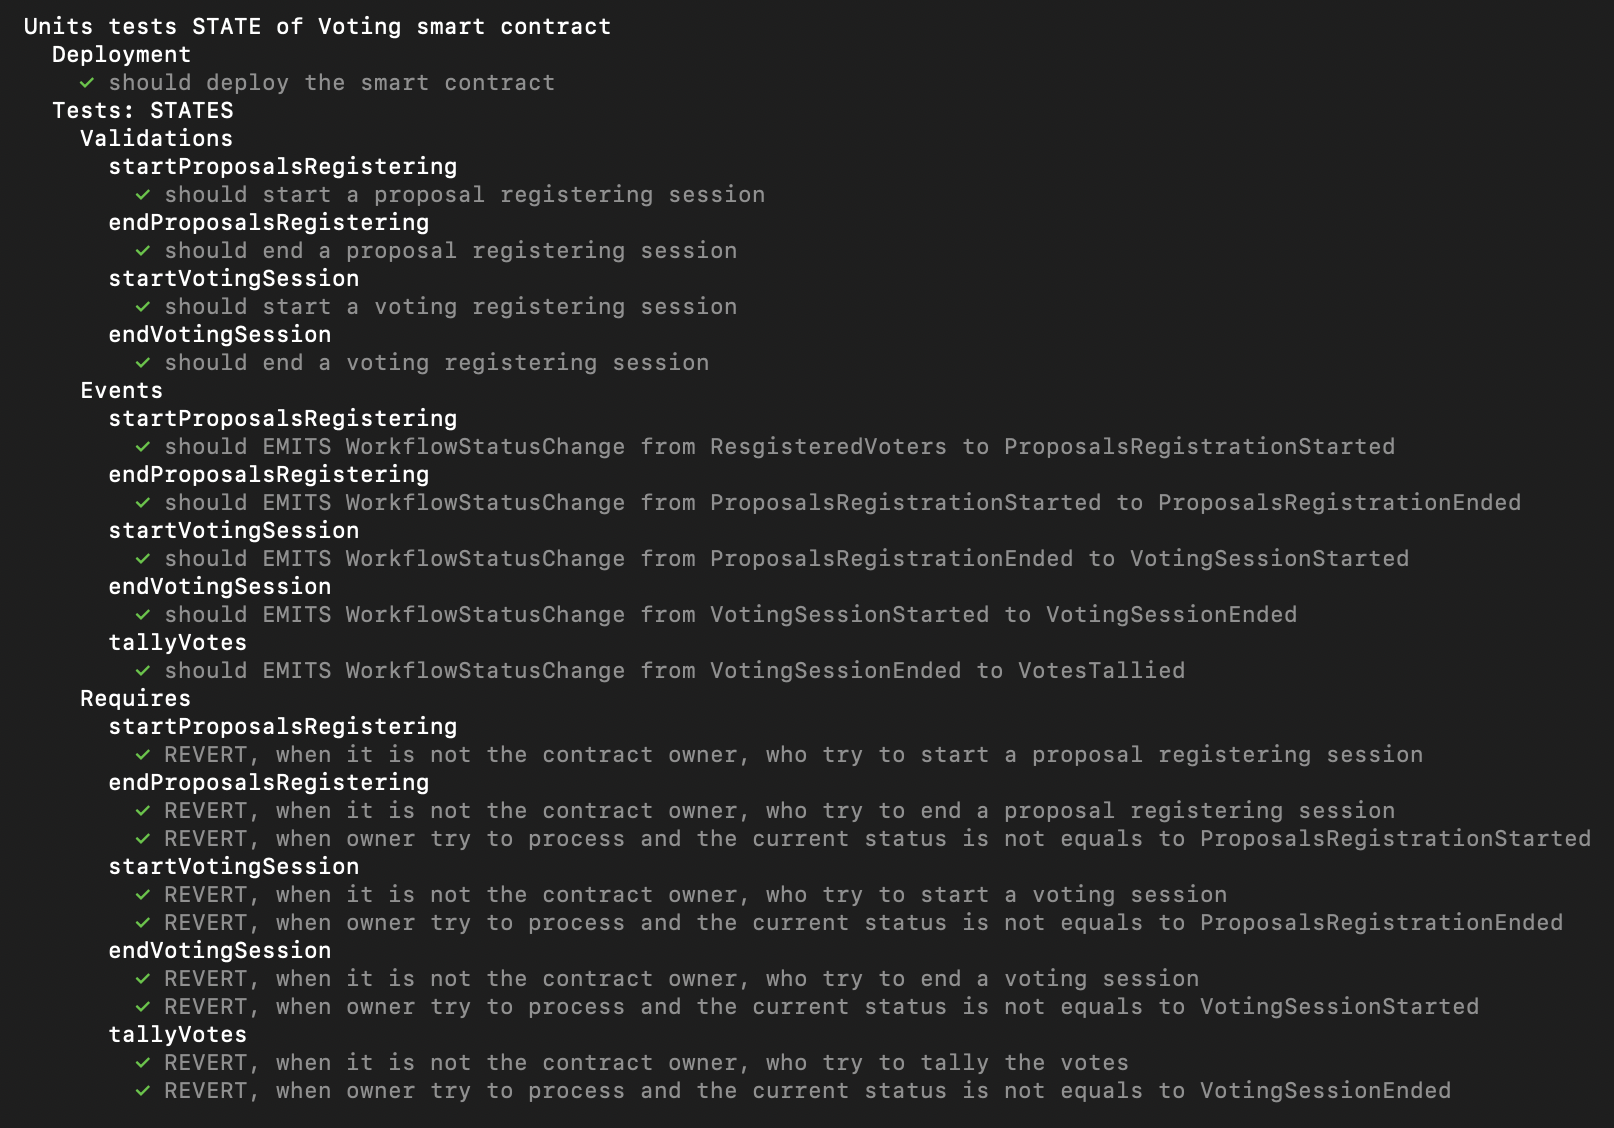
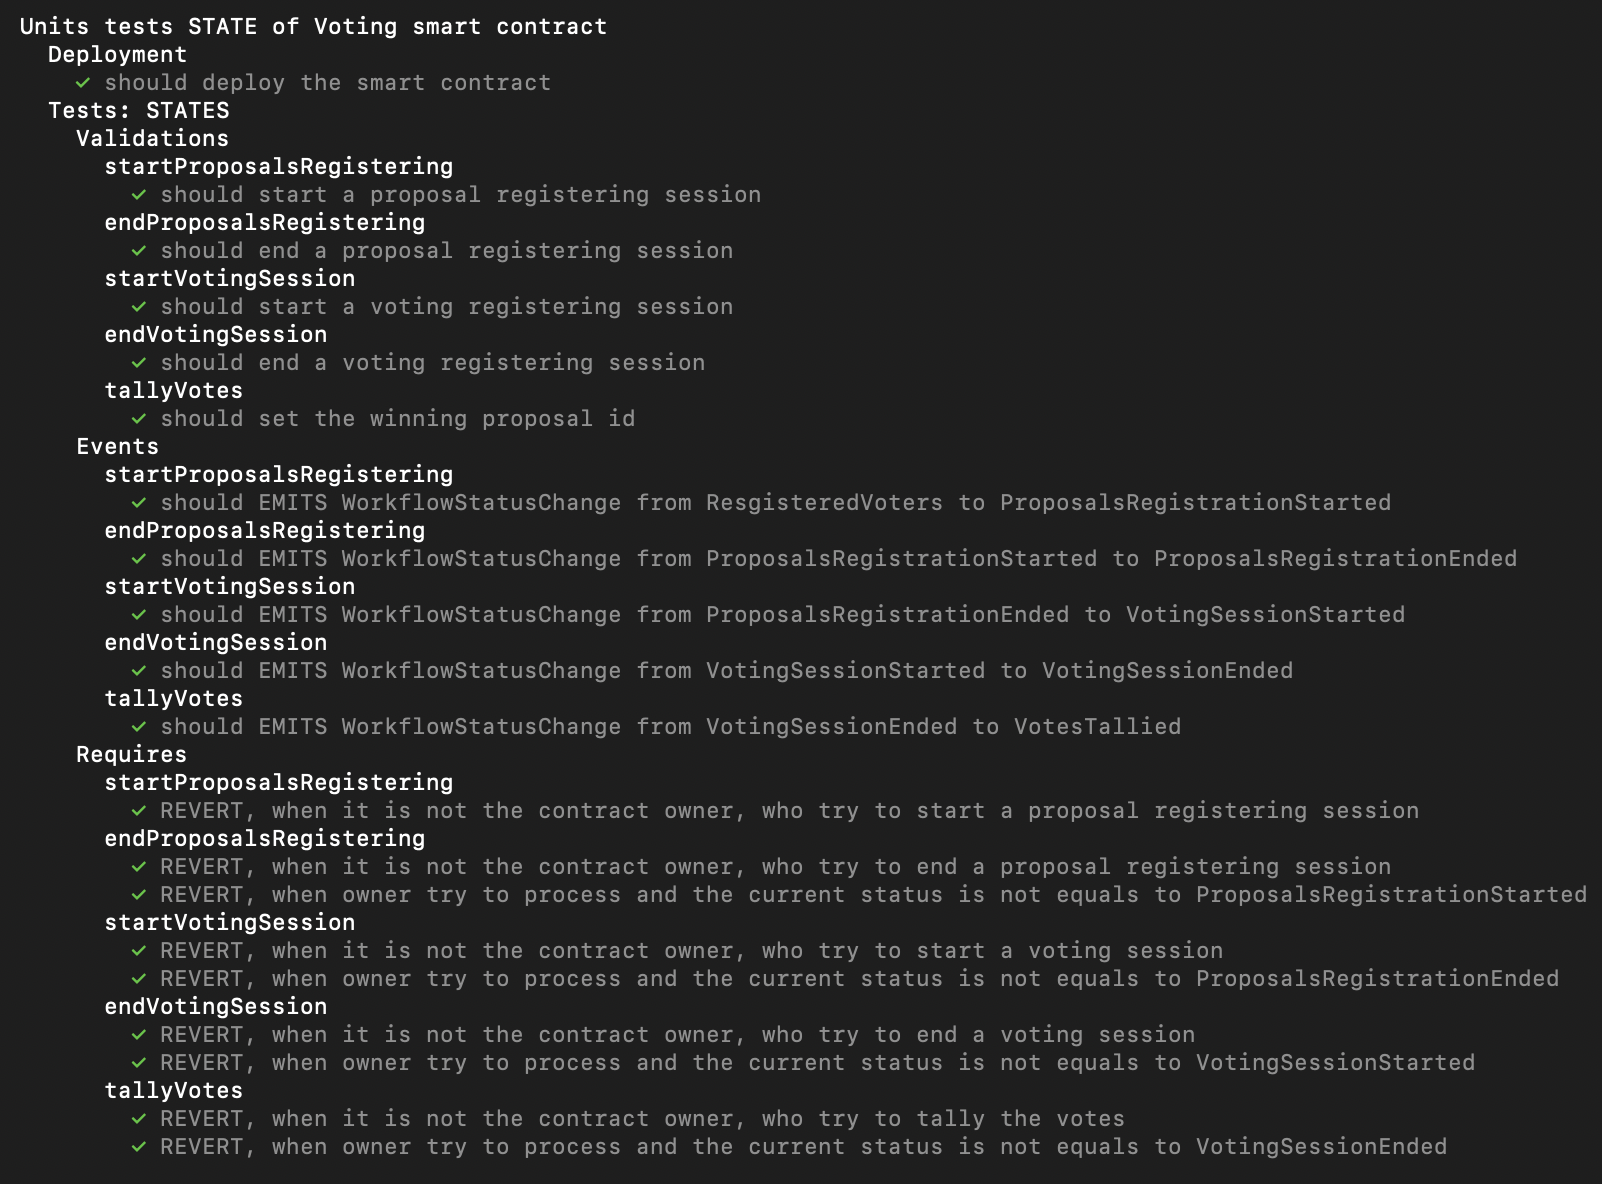
Add tallyvotes methods test validation

Changed region(s): [[0.0, 0.0, 0.9988, 0.9929]]

diff --git a/test/unit/votingsytem_state.test.js b/test/unit/votingsytem_state.test.js
@@ -7,7 +7,7 @@ const { developmentChains } = require("../../helper-hardhet-config")
   : describe("Units tests STATE of Voting smart contract", function(){
       let accounts;
       let voting;
-      
+
       before(async () => {
         accounts = await ethers.getSigners()
         deployer = accounts[0]
@@ -42,6 +42,7 @@ const { developmentChains } = require("../../helper-hardhet-config")
 
           describe("startVotingSession", async function(){
             it("should start a voting registering session", async function(){
+              // Starting the Proposal Registering session, also create a genesis proposal
               await voting.startProposalsRegistering()
               await voting.endProposalsRegistering()
               await expect(await voting.startVotingSession()).not.to.be.reverted
@@ -54,6 +55,21 @@ const { developmentChains } = require("../../helper-hardhet-config")
               await voting.endProposalsRegistering()
               await voting.startVotingSession()
               await expect(await voting.endVotingSession()).not.to.be.reverted
+            })
+          })
+
+          describe("tallyVotes", async function(){
+            it("should set the winning proposal id", async function(){
+              await voting.startProposalsRegistering()
+              await voting.endProposalsRegistering()
+              await voting.startVotingSession()
+              await voting.endVotingSession()
+
+              await expect(voting.tallyVotes()).not.to.be.reverted
+              const winningProposalID = await voting.winningProposalID.call()
+
+              // No vote has been made, proposal genesis is by default the winning proposal
+              await assert(ethers.BigNumber.from(winningProposalID).toString() === ethers.BigNumber.from(0).toString())
             })
           })
         })
@@ -98,7 +114,7 @@ const { developmentChains } = require("../../helper-hardhet-config")
               await voting.endProposalsRegistering()
               currentStatus = await voting.workflowStatus.call();
               assert(ethers.BigNumber.from(currentStatus).toString() === ProposalsRegistrationEnded.toString())
-      
+
               await expect(await voting.startVotingSession()).to.emit(voting, "WorkflowStatusChange")
 
               currentStatus = await voting.workflowStatus.call();
@@ -146,7 +162,7 @@ const { developmentChains } = require("../../helper-hardhet-config")
           })
 
           describe("endProposalsRegistering", async function(){
-            it("REVERT, when it is not the contract owner, who try to end a proposal registering session", async function(){                
+            it("REVERT, when it is not the contract owner, who try to end a proposal registering session", async function(){
               await expect(voting.connect(accounts[1]).endProposalsRegistering()).to.be.revertedWith("Ownable: caller is not the owner")
             })
 
@@ -156,7 +172,7 @@ const { developmentChains } = require("../../helper-hardhet-config")
           })
 
           describe("startVotingSession", async function(){
-            it("REVERT, when it is not the contract owner, who try to start a voting session", async function(){                
+            it("REVERT, when it is not the contract owner, who try to start a voting session", async function(){
               await expect(voting.connect(accounts[1]).startVotingSession()).to.be.revertedWith("Ownable: caller is not the owner")
             })
 
@@ -164,9 +180,9 @@ const { developmentChains } = require("../../helper-hardhet-config")
               await expect(voting.startVotingSession()).to.be.revertedWith("Registering proposals phase is not finished")
             })
           })
-          
+
           describe("endVotingSession", async function(){
-            it("REVERT, when it is not the contract owner, who try to end a voting session", async function(){                
+            it("REVERT, when it is not the contract owner, who try to end a voting session", async function(){
               await expect(voting.connect(accounts[1]).endVotingSession()).to.be.revertedWith("Ownable: caller is not the owner")
             })
 
@@ -176,14 +192,14 @@ const { developmentChains } = require("../../helper-hardhet-config")
           })
 
           describe("tallyVotes", async function(){
-            it("REVERT, when it is not the contract owner, who try to tally the votes", async function(){                
+            it("REVERT, when it is not the contract owner, who try to tally the votes", async function(){
               await expect(voting.connect(accounts[1]).tallyVotes()).to.be.revertedWith("Ownable: caller is not the owner")
             })
 
             it("REVERT, when owner try to process and the current status is not equals to VotingSessionEnded", async function(){
               await expect(voting.tallyVotes()).to.be.revertedWith("Current status is not voting session ended")
             })
-          })      
+          })
       })
     })
   })
